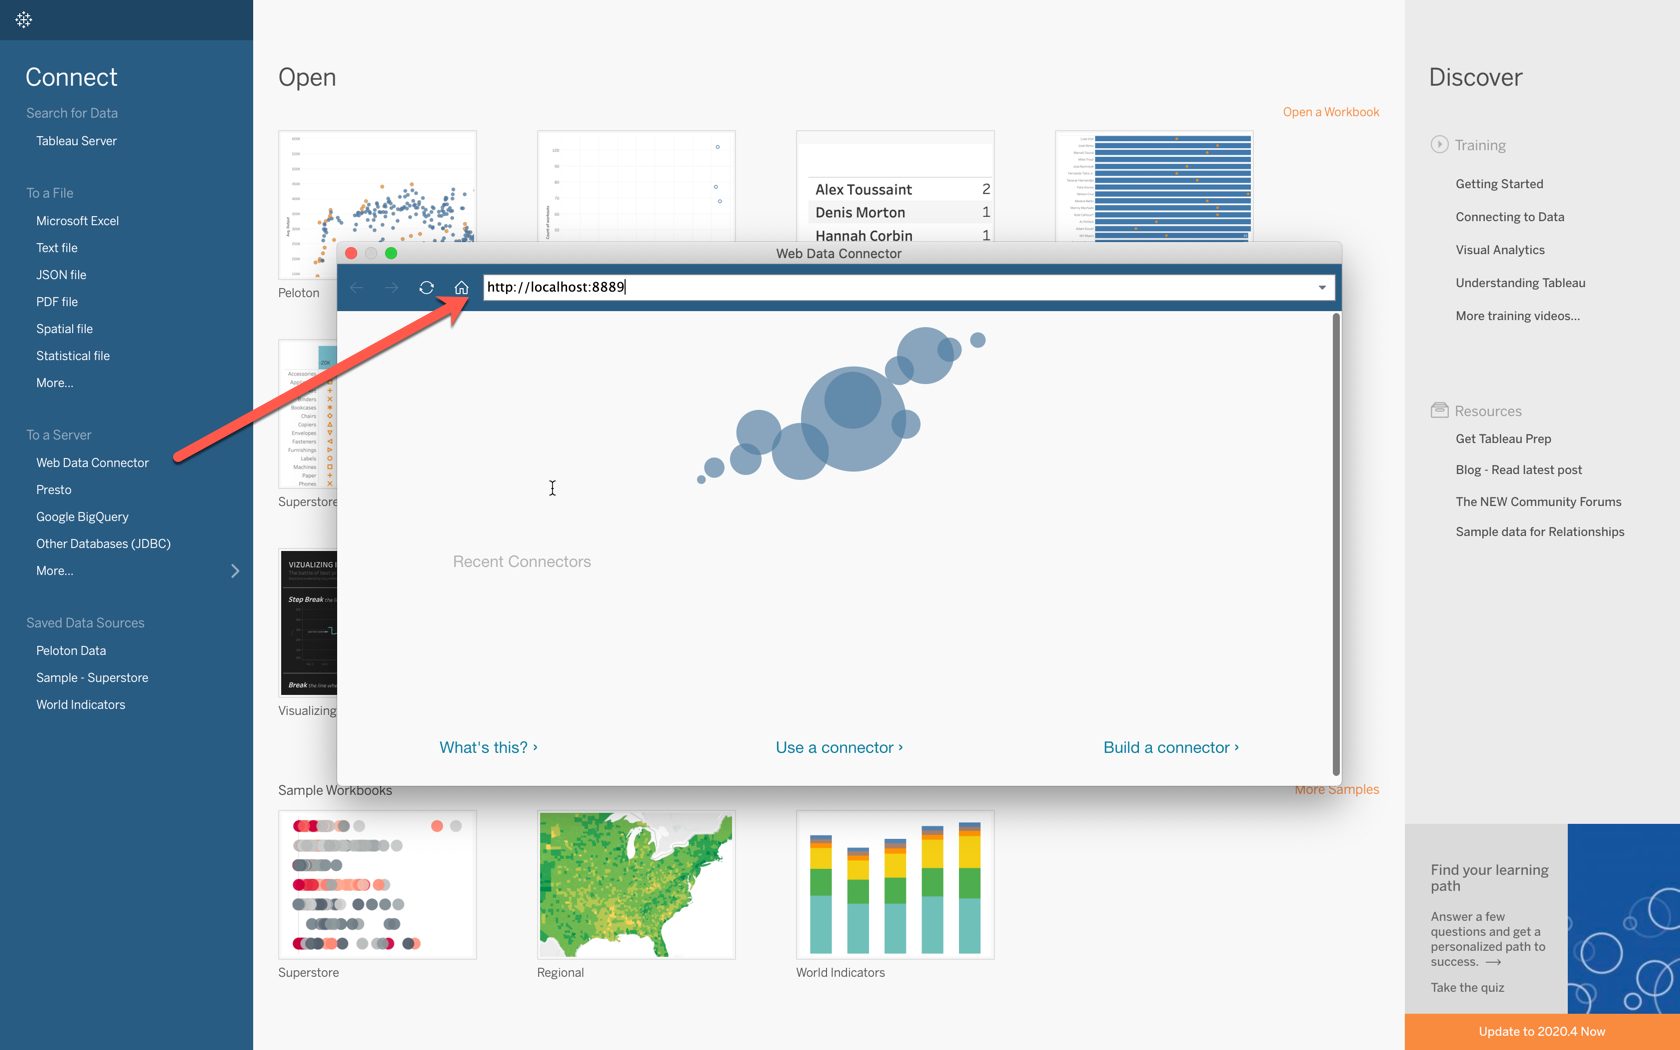
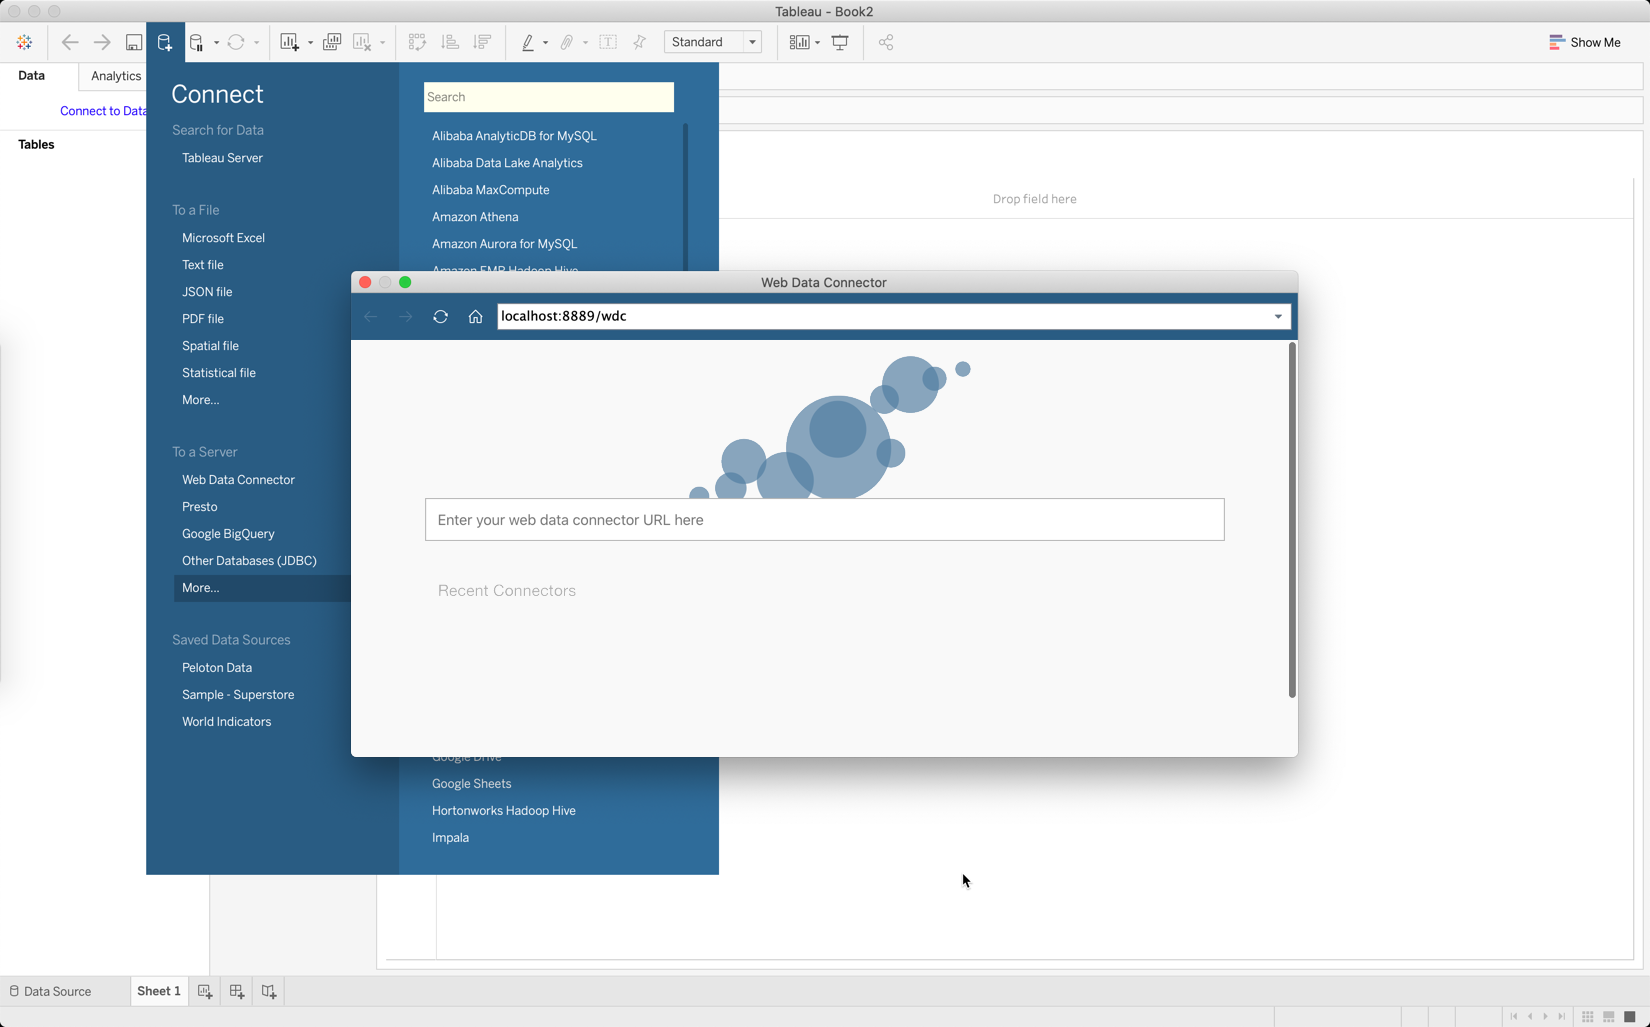
Redirecting from root to home, and adding wdc endpoint.

diff --git a/static/css/pelostyle.css b/static/css/pelostyle.css
@@ -7,6 +7,16 @@
     color: #202020;
 }
 
+.notice {
+    margin: 10px auto;
+    padding: 5px 20px;
+    border-radius: 2px;
+    font-family: 'Pelotare Sans', sans-serif;
+    font-size: 14px;
+    color: #202020;
+    background-color: #e4e7eb;
+}
+
 h1, h2, h3, h4 {
     color: #222529;
 }

diff --git a/main.go b/main.go
@@ -47,8 +47,9 @@ func main() {
 	r.PathPrefix("/doc-images/").Handler(http.StripPrefix("/doc-images/", http.FileServer(http.Dir("doc-images"))))
 
 	r.HandleFunc("/home", homeHandler)
-	r.HandleFunc("/", WdcHandler)
-	r.Handle("/peloton-wdc", http.RedirectHandler("/", http.StatusFound))
+	r.Handle("/", http.RedirectHandler("/home", http.StatusFound))
+	r.Handle("/peloton-wdc", http.RedirectHandler("/wdc", http.StatusFound))
+	r.HandleFunc("/wdc", WdcHandler)
 	r.HandleFunc("/login", authHandler)
 	r.HandleFunc("/cycling/schema/{table}", cyclingSchema)
 	r.HandleFunc("/cycling/data/{table}", cyclingData)
@@ -154,7 +155,7 @@ func authHandler(w http.ResponseWriter, r *http.Request) {
 
 	if res.StatusCode != http.StatusOK {
 		log.Print("error: could not authenticate")
-		http.Redirect(w, r, "/?redirectCause=authFailed&user="+username, http.StatusFound)
+		http.Redirect(w, r, "/wdc?redirectCause=authFailed&user="+username, http.StatusFound)
 		return
 	}
 
@@ -191,7 +192,7 @@ func authHandler(w http.ResponseWriter, r *http.Request) {
 	http.SetCookie(w, &tokenCookie)
 	http.SetCookie(w, &userCookie)
 
-	http.Redirect(w, r, "/?user="+username, http.StatusFound)
+	http.Redirect(w, r, "/wdc?user="+username, http.StatusFound)
 }
 
 func cyclingSchema(w http.ResponseWriter, r *http.Request) {

diff --git a/README.md b/README.md
@@ -92,7 +92,7 @@ _If necessary, allow connections._
 ## Connect with Tableau Desktop
 Install [Tableau Desktop](https://public.tableau.com/en-us/s/download), if you haven't already.
 
-Open Tableau, and use the Web Data Connector option.  If you're running this locally, enter `http://localhost:` and the `port` (e.g `http://localhost:8889`).  If you're connecting to the online version (currently in alpha, and likely unstable), enter `https://warm-shore-62344.herokuapp.com`.
+Open Tableau, and use the Web Data Connector option.  If you're running this locally, enter `http://localhost:<port>/wdc` (e.g `http://localhost:8889/wdc`).  If you're connecting to the online version (currently in alpha, and likely unstable), enter `https://warm-shore-62344.herokuapp.com/wdc`.
 
 ![connect](doc-images/connect.png)
 
